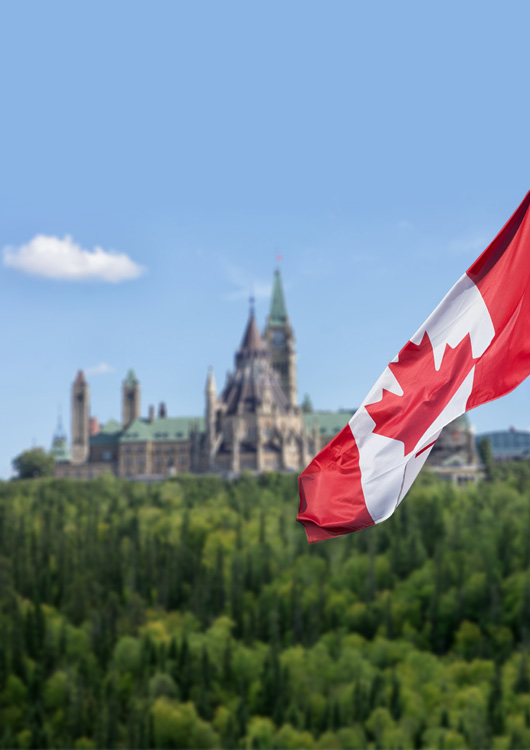
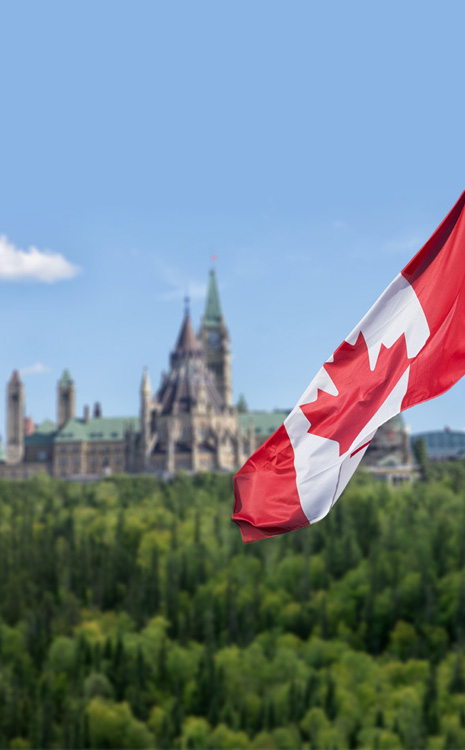
V2 - Various fix and comments for internal issue 15 to 20 and 22 to 28

diff --git a/src/_defaults.scss b/src/_defaults.scss
@@ -105,7 +105,7 @@ h5,
 
 h6,
 .h6 {
-	font-size: 16px;
+	font-size: 17px;
 }
 
 // Common heading style
@@ -167,6 +167,7 @@ aside {
  * - views/_screen-lg-min
  * - views/_screen-xs-min-to-screen-xs-max
  * - views/_screen-md-min-to-screen-md-max
+ * - views/_screen-md-max
  * - views/_screen-xs-max
  */
 .home-banner {
@@ -181,6 +182,7 @@ aside {
 		width: 50%;
 
 		h1 {
+			border-bottom-width: 4px;
 			font-weight: 500;
 			margin-top: 10px;
 		}
@@ -448,75 +450,6 @@ a.figcaption {
 			.wb-share-inited {
 				@extend %gcweb-pagedetails-children-margin-top;
 			}
-		}
-	}
-}
-
-/* IE */
-.lt-ie9 {
-	h1,
-	.h1 {
-		font-size: 27px !important;
-	}
-
-	h2,
-	.h2 {
-		font-size: 25px;
-	}
-
-	h3,
-	.h3 {
-		font-size: 22px;
-	}
-
-	h4,
-	.h4 {
-		font-size: 20px;
-	}
-
-	h5,
-	.h5 {
-		font-size: 18px;
-	}
-
-	h6,
-	.h6 {
-		font-size: 16px;
-		font-weight: bold;
-	}
-
-	// overrides from ie8-wet-boew.css for thumbnails
-	.priorities,
-	.features {
-		.thumbnail {
-			display: inline-block;
-
-			> img,
-			a > img {
-				display: inline-block;
-			}
-		}
-	}
-
-	.priorities {
-		.thumbnail {
-			background-color: $profile-gray;
-		}
-	}
-
-	/*
-	 Normalizes IE8 behaviour with floated boxes and border-box model. IE without it reports back an incorrect Offset.
-	 */
-	.sect-lnks {
-		vertical-align: top !important;
-	}
-
-	/*
-	* Fixes width of FIP PNG on Institutional pages
-	*/
-	.inst-brand {
-		img {
-			width: 100%;
 		}
 	}
 }

diff --git a/src/views/_screen-md-max.scss b/src/views/_screen-md-max.scss
@@ -2,3 +2,13 @@
   WET-BOEW
   @title: Medium view and under (screen only)
  */
+
+/* Home page banner */
+.home-banner {
+	.innerbox {
+		width: 75%;
+		h1 {
+			width: 55%;
+		}
+	}
+}

diff --git a/src/views/_screen-xs-min-to-screen-xs-max.scss b/src/views/_screen-xs-min-to-screen-xs-max.scss
@@ -6,8 +6,9 @@
 /* Home page banner */
 .home-banner {
 	.innerbox {
+		width: 100%;
 		h1 {
-			width: 58.3%;
+			width: 59%;
 		}
 	}
 }

diff --git a/src/views/_screen-xs-max.scss b/src/views/_screen-xs-max.scss
@@ -10,10 +10,3 @@
 		width: 100%;
 	}
 }
-
-/* Home page banner */
-.home-banner {
-	.innerbox {
-		width: 100%;
-	}
-}
